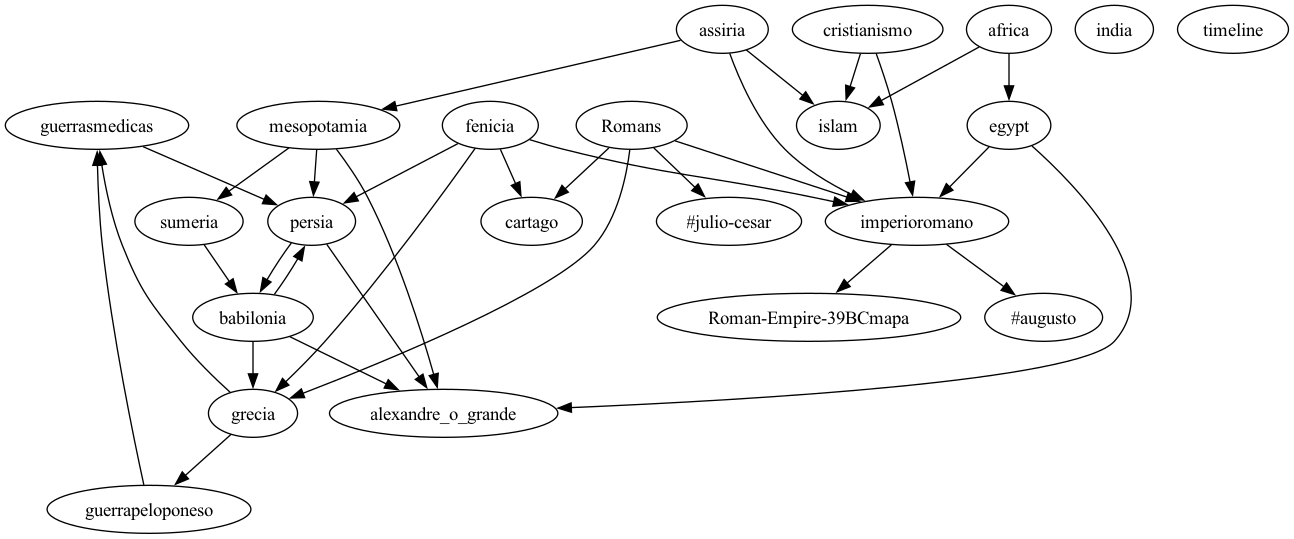
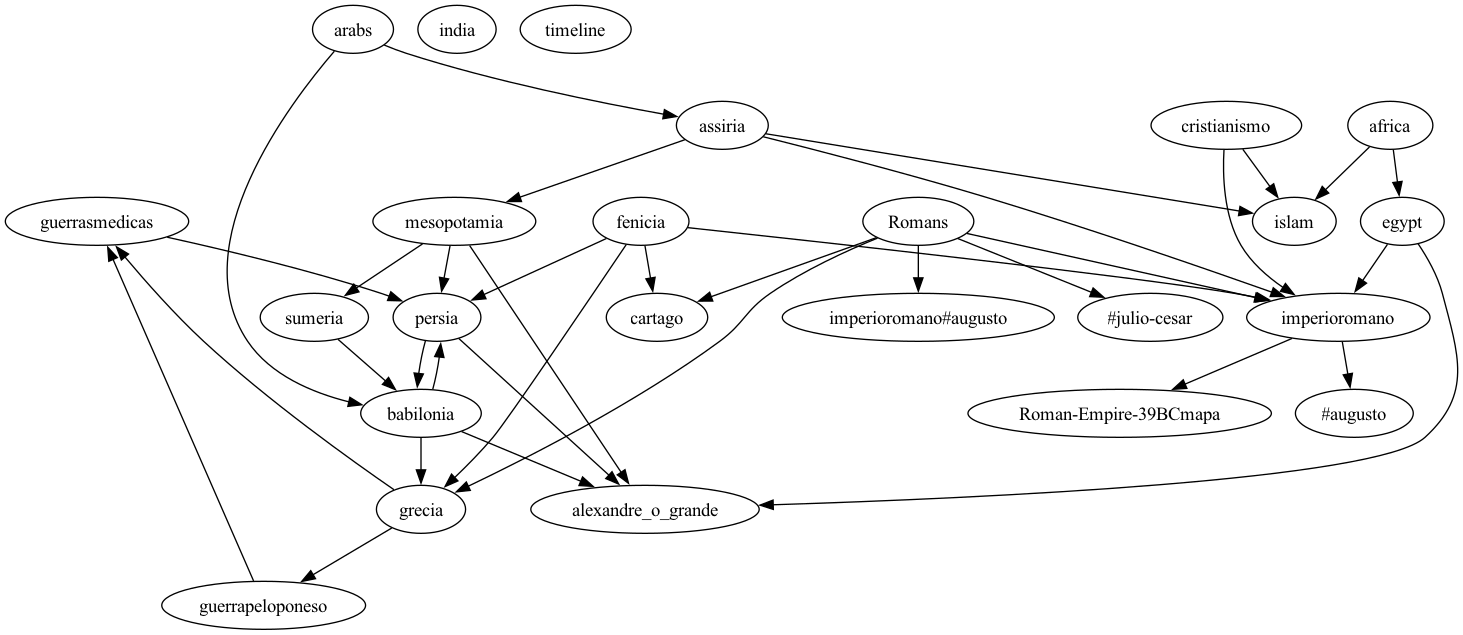
feat: introduction to arabs ::by sergio giraldo @ 20241205T2145CET, gpg signed

diff --git a/docs/index.html b/docs/index.html
@@ -78,6 +78,8 @@
 <li><a href='assiria'>assiria</a></li>
 
 <li><a href='cristianismo'>cristianismo</a></li>
+
+<li><a href='arabs'>arabs</a></li>
 <!--NEXT-->
 			</ul>
 		</div>

diff --git a/docs/Romans.md b/docs/Romans.md
@@ -85,7 +85,7 @@ Nascido em uma família patrícia de pequena influência, César foi galgando se
 
 Suas conquistas lhe deram enorme poderio militar e respeito, que acabou ameaçando a posição do seu companheiro político, e agora rival, Pompeu Magno. Este último havia mudado de lado, após a morte de Crasso em 53 a.C., e agora apoiava a ala conservadora do senado. Com a guerra na Gália encerrada, os senadores em Roma exigiram que César dispensasse seu exército e retornasse à capital. Recusou-se a obedecer e em 49 a.C. cruzou o rio Rubicão com suas legiões, entrando armado na Itália (em violação da lei romana que impedia um general de marchar em Roma). Isso precipitou uma violenta guerra civil, que terminou com uma vitória de César, com ele assumindo poder total na República.
 
-Em 49 a.C., César assumiu o comando em Roma como um ditador absoluto. Ele iniciou então uma série de reformas sociais e políticas, incluindo a criação do calendário juliano. Continuou a centralizar o poder e a burocracia da República pelos anos seguintes, dando a si mesmo grande autoridade. Porém a ferida da guerra civil ainda estava aberta e a oposição política em Roma começou a conspirar para derrubá-lo do poder. As conspirações culminaram nos Idos de Março em 44 a.C. com o assassinato de César por um grupo de senadores aristocratas liderados por Marco Júnio Bruto. Sua morte precipitaria uma nova guerra civil pelos espólios do poder e assim o governo constitucional republicano nunca foi totalmente restaurado. O seu sobrinho-neto, Caio Otaviano, foi feito seu herdeiro em testamento. Em 27 a.C., o jovem passaria para a história como Augusto, o primeiro [imperador romano](imperioromano), adotando o título de César e reivindicando para si o seu legado político.
+Em 49 a.C., César assumiu o comando em Roma como um ditador absoluto. Ele iniciou então uma série de reformas sociais e políticas, incluindo a criação do calendário juliano. Continuou a centralizar o poder e a burocracia da República pelos anos seguintes, dando a si mesmo grande autoridade. Porém a ferida da guerra civil ainda estava aberta e a oposição política em Roma começou a conspirar para derrubá-lo do poder. As conspirações culminaram nos Idos de Março em 44 a.C. com o assassinato de César por um grupo de senadores aristocratas liderados por Marco Júnio Bruto. Sua morte precipitaria uma nova guerra civil pelos espólios do poder e assim o governo constitucional republicano nunca foi totalmente restaurado. O seu sobrinho-neto, Caio Otaviano, foi feito seu herdeiro em testamento. Em 27 a.C., o jovem passaria para a história como [Augusto](imperioromano#augusto), o primeiro imperador romano, adotando o título de César e reivindicando para si o seu legado político.
 
 ## Imperadores
 

diff --git a/docs/arabs.md b/docs/arabs.md
@@ -1,0 +1,5 @@
+# arabs
+
+The Arabs  are an ethnic group mainly inhabiting the Arab world in West Asia and North Africa.
+
+The nomads of Arabia have been spreading through the desert fringes of the Fertile Crescent since at least 3000 BCE, but the first known reference to the Arabs as a distinct group is from an [Assyrian](assiria) scribe recording a battle in 853 BCE. The history of the Arabs during the pre-Islamic period in various regions, including Arabia, Levant, Mesopotamia, and Egypt. The Arabs were mentioned by their neighbors, such as [Assyrian](assiria) and [Babylonian](babilonia) Royal Inscriptions from 9th to 6th century BCE, mention the king of Qedar as king of the Arabs and King of the Ishmaelites.
